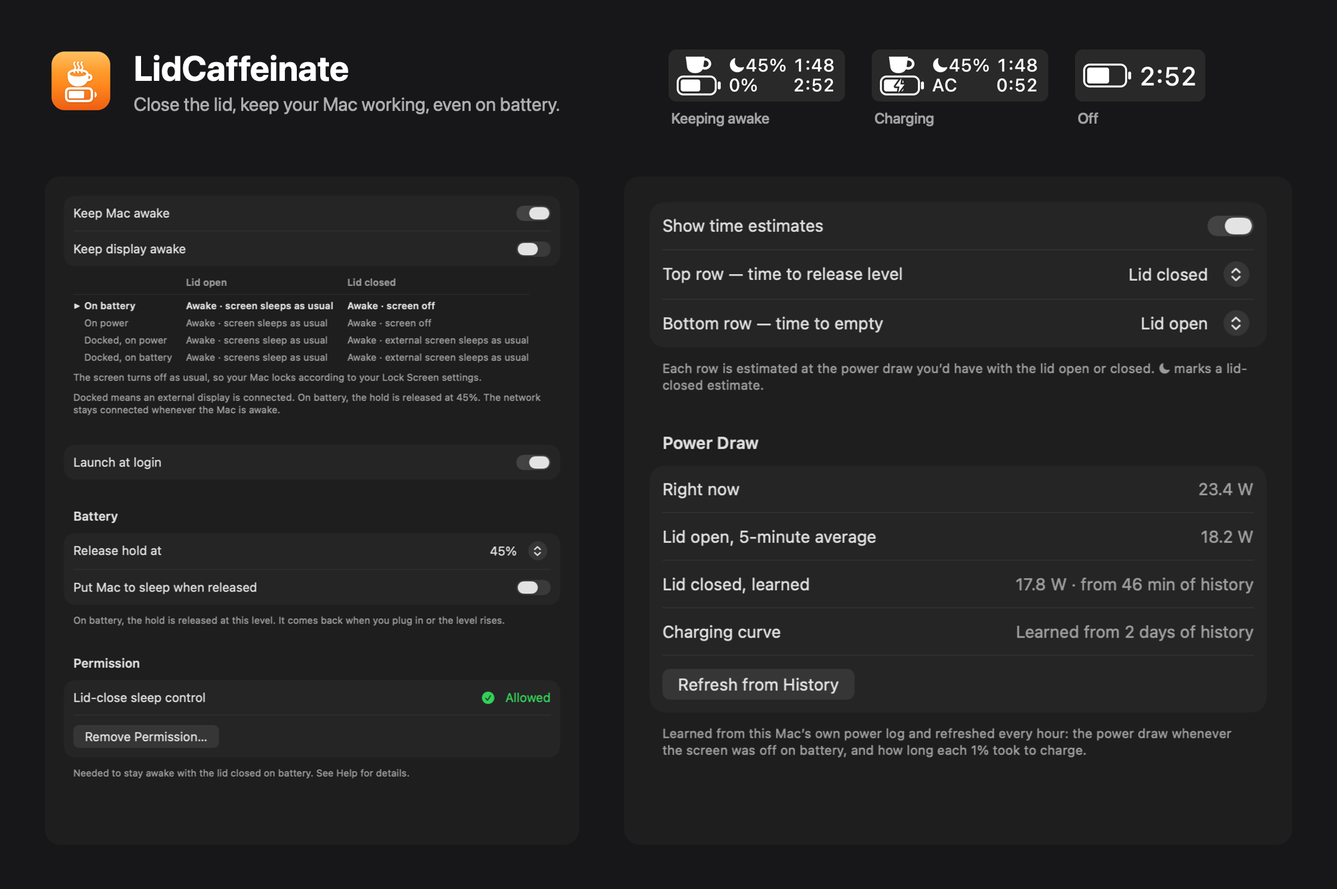
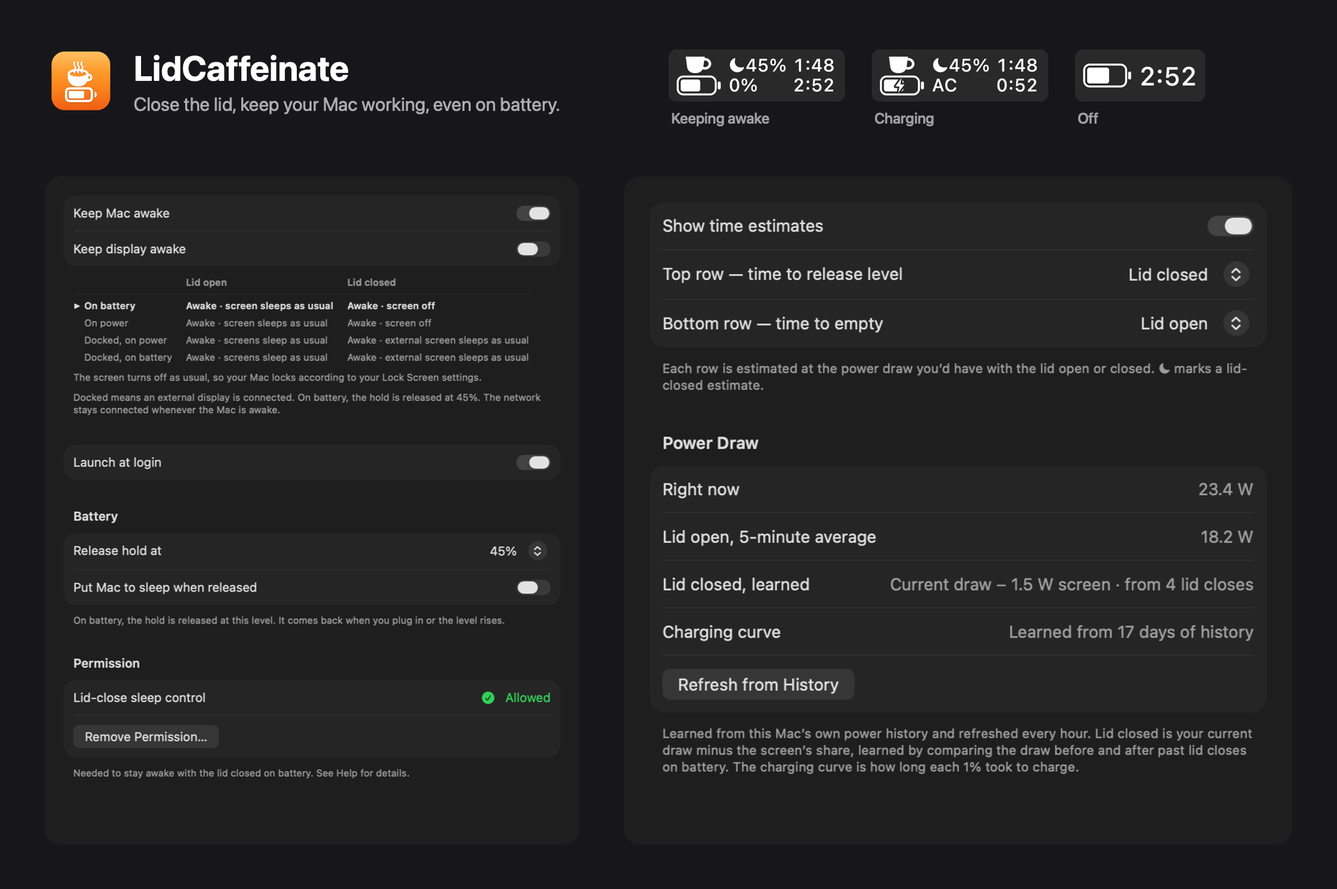
1.2.0: lid-closed time follows your current load; charging curve matched to your charger
- Lid-closed draw is now the current power draw minus the screen's share,
  learned from before/after pairs around past lid closes on battery
  (2 W assumed until 3 are seen).
- History now also reads macOS's older daily power-log archives,
  unpacked once into the app's Caches folder.
- Time to full uses only past charges with a similar charger, recognised
  by each session's peak power in; other bands fall back to all history.
- Works on any installation: checks tables/columns before reading,
  skips unreadable logs, keeps the last good result.

Changed region(s): [[0.496, 0.8015, 0.93, 0.894], [0.651, 0.6474, 0.93, 0.6782], [0.744, 0.709, 0.837, 0.7398]]

diff --git a/main.swift b/main.swift
@@ -219,7 +219,8 @@ enum ChargeModel {
     static func historyMinutes(_ b: BatteryInfo) -> Int? {
         guard let pct = b.pct, pct < 100 else { return nil }
         let cur = min(9, pct / 10)
-        guard let histNow = PowerHistory.chargeRate(cur) else { return nil }
+        let ref = max(PowerHistory.chargePeakW, b.powerInW ?? 0)                 // this charger's power
+        guard let histNow = PowerHistory.chargeRate(cur, refW: ref) else { return nil }
         var scale = 1.0
         if cur < 8, let a = b.mA, a > 50, let mx = b.mAhMax {
             let liveNow = 60 * Double(mx) / (100 * Double(a))      // minutes per 1% at today's charging speed
@@ -228,7 +229,7 @@ enum ChargeModel {
         var m = 0.0
         for p in pct..<100 {
             let band = min(9, p / 10)
-            guard let r = PowerHistory.chargeRate(band) else { return nil }
+            guard let r = PowerHistory.chargeRate(band, refW: ref) else { return nil }
             m += band < 8 ? r * scale : r
         }
         return Int(m.rounded())
@@ -237,11 +238,17 @@ enum ChargeModel {
 
 // MARK: - Power history (macOS power log)
 
+/// One past charge: its peak power in (identifies the charger) and the time / % gained per 10% band.
+struct ChargeSession: Codable { var peak: Double; var t: [Double]; var d: [Double] }
+
 struct HistoryResult: Codable {
     var chargeMinutesPerPercent: [Double]   // per 10% band; -1 = not enough data
     var lidClosedWatts: Double?             // screen off, on battery, awake
     var lidClosedMinutes: Double
     var days: Double
+    var screenShareW: Double? = nil         // how much less the Mac draws once the screen is off (learned from lid closes)
+    var lidClosePairs: Int? = nil           // lid closes on battery with a usable before/after
+    var sessions: [ChargeSession]? = nil    // per-charge stats, to match past charges to today's charger
 }
 
 /// Learns from the power log macOS keeps on every Mac (readable without admin rights):
@@ -276,9 +283,26 @@ enum PowerHistory {
         }
     }
 
+    /// Peak power in during the current charge (set by the app), used to match past charges to this charger.
+    static var chargePeakW = 0.0
+
+    /// Minutes per 1% per band from past charges whose peak power in was at least 70% of this charger's.
+    /// Bands without such data use all history; -1 = no data.
+    static func curve(refW: Double) -> [Double] {
+        guard let r = result, r.chargeMinutesPerPercent.count == 10 else { return [] }
+        let all = r.chargeMinutesPerPercent
+        guard refW > 0, let ss = r.sessions, ss.contains(where: { $0.peak > 0 }) else { return all }
+        var t = [Double](repeating: 0, count: 10), d = t
+        for s in ss where s.peak >= 0.7 * refW && s.t.count == 10 && s.d.count == 10 {
+            for b in 0..<10 { t[b] += s.t[b]; d[b] += s.d[b] }
+        }
+        return (0..<10).map { d[$0] >= 3 ? t[$0] / 60 / d[$0] : all[$0] }
+    }
+
     /// Minutes per 1% for a band; a band without data borrows the nearest one, preferring the slower band above.
-    static func chargeRate(_ band: Int) -> Double? {
-        guard let m = result?.chargeMinutesPerPercent, m.count == 10 else { return nil }
+    static func chargeRate(_ band: Int, refW: Double = 0) -> Double? {
+        let m = curve(refW: refW)
+        guard m.count == 10 else { return nil }
         if m[band] > 0 { return m[band] }
         for k in 1..<10 {
             for c in [band + k, band - k] where (0..<10).contains(c) && m[c] > 0 { return m[c] }
@@ -286,9 +310,48 @@ enum PowerHistory {
         return nil
     }
 
-    static func compute() -> HistoryResult? {
+    /// Screen share assumed until at least 3 lid closes have been seen.
+    static let defaultScreenShare = 2.0
+
+    /// The current log plus macOS's older daily archives, unpacked once into the app's cache folder.
+    static func logFiles() -> [String] {
+        let fm = FileManager.default
+        var files: [String] = []
+        let archDir = "/private/var/db/powerlog/Library/BatteryLife/Archives"
+        if let cache = fm.urls(for: .cachesDirectory, in: .userDomainMask).first?.appendingPathComponent("LidCaffeinate/powerlog") {
+            try? fm.createDirectory(at: cache, withIntermediateDirectories: true)
+            let archives = ((try? fm.contentsOfDirectory(atPath: archDir)) ?? []).filter { $0.hasSuffix(".PLSQL.gz") }.sorted()
+            let wanted = Set(archives.map { String($0.dropLast(3)) })
+            for name in (try? fm.contentsOfDirectory(atPath: cache.path)) ?? [] where !wanted.contains(name) {
+                try? fm.removeItem(at: cache.appendingPathComponent(name))       // macOS dropped that archive
+            }
+            for a in archives {
+                let out = cache.appendingPathComponent(String(a.dropLast(3)))
+                if !fm.fileExists(atPath: out.path), fm.createFile(atPath: out.path, contents: nil),
+                   let h = FileHandle(forWritingAtPath: out.path) {
+                    let p = Process()
+                    p.executableURL = URL(fileURLWithPath: "/usr/bin/gunzip")
+                    p.arguments = ["-c", "\(archDir)/\(a)"]
+                    p.standardOutput = h
+                    p.standardError = FileHandle.nullDevice
+                    var ok = false
+                    if (try? p.run()) != nil { p.waitUntilExit(); ok = p.terminationStatus == 0 }
+                    try? h.close()
+                    if !ok { try? fm.removeItem(at: out) }
+                }
+                if fm.fileExists(atPath: out.path) { files.append(out.path) }
+            }
+        }
+        files.append(path)
+        return files
+    }
+
+    struct Row { var t: Double; var level: Double?; var charging, ext, full: Bool; var mA, mV, adapterW: Double? }
+
+    /// Reads one log; checks which tables and columns exist so it works across Macs and macOS versions.
+    static func read(_ file: String) -> (rows: [Row], backlight: [(Double, Int)])? {
         var db: OpaquePointer?
-        guard sqlite3_open_v2("file:\(path)?immutable=1", &db, SQLITE_OPEN_READONLY | SQLITE_OPEN_URI, nil) == SQLITE_OK else {
+        guard sqlite3_open_v2("file:\(file)?immutable=1", &db, SQLITE_OPEN_READONLY | SQLITE_OPEN_URI, nil) == SQLITE_OK else {
             sqlite3_close(db); return nil
         }
         defer { sqlite3_close(db) }
@@ -302,29 +365,61 @@ enum PowerHistory {
         func num(_ s: OpaquePointer, _ i: Int32) -> Double? {
             sqlite3_column_type(s, i) == SQLITE_NULL ? nil : sqlite3_column_double(s, i)
         }
-
+        var cols = Set<String>()
+        _ = query("pragma table_info('PLBatteryAgent_EventBackward_Battery')") { s in
+            if let c = sqlite3_column_text(s, 1) { cols.insert(String(cString: c)) }
+        }
+        guard cols.contains("timestamp"), cols.contains("Level") else { return nil }
+        func col(_ names: [String], _ fallback: String) -> String { names.first(where: cols.contains) ?? fallback }
+        let sql = "select timestamp, Level, \(col(["IsCharging"], "0")), \(col(["ExternalConnected"], "0")), " +
+                  "\(col(["FullyCharged"], "0")), \(col(["InstantAmperage", "Amperage"], "NULL")), \(col(["Voltage"], "NULL")), " +
+                  "\(col(["AdapterPower"], "NULL")) " +
+                  "from PLBatteryAgent_EventBackward_Battery order by timestamp"
+        var rows: [Row] = []
+        guard query(sql, { s in
+            rows.append(Row(t: sqlite3_column_double(s, 0), level: num(s, 1), charging: sqlite3_column_int(s, 2) == 1,
+                            ext: sqlite3_column_int(s, 3) == 1, full: sqlite3_column_int(s, 4) == 1, mA: num(s, 5), mV: num(s, 6),
+                            adapterW: num(s, 7)))
+        }) else { return nil }
         var backlight: [(Double, Int)] = []
         _ = query("select timestamp, Active from PLDisplayAgent_EventPoint_Display where Block='Backlight' order by timestamp") { s in
             backlight.append((sqlite3_column_double(s, 0), Int(sqlite3_column_int(s, 1))))
         }
-        struct Row { var t: Double; var level: Double?; var charging, ext, full: Bool; var mA, mV: Double? }
-        var rows: [Row] = []
-        let ok = query("select timestamp, Level, IsCharging, ExternalConnected, FullyCharged, InstantAmperage, Voltage from PLBatteryAgent_EventBackward_Battery order by timestamp") { s in
-            rows.append(Row(t: sqlite3_column_double(s, 0), level: num(s, 1), charging: sqlite3_column_int(s, 2) == 1,
-                            ext: sqlite3_column_int(s, 3) == 1, full: sqlite3_column_int(s, 4) == 1, mA: num(s, 5), mV: num(s, 6)))
+        return (rows, backlight)
+    }
+
+    static func compute() -> HistoryResult? {
+        // merge all logs in time order, skipping overlap
+        var parts = logFiles().compactMap(read).filter { !$0.rows.isEmpty }
+        parts.sort { $0.rows[0].t < $1.rows[0].t }
+        var rows: [Row] = [], backlight: [(Double, Int)] = []
+        for p in parts {
+            let lastT = rows.last?.t ?? 0
+            rows += p.rows.filter { $0.t > lastT }
+            let lastB = backlight.last?.0 ?? 0
+            backlight += p.backlight.filter { $0.0 > lastB }
         }
-        guard ok, rows.count > 1 else { return nil }
+        guard rows.count > 1 else { return nil }
 
         var bandT = [Double](repeating: 0, count: 10), bandD = bandT
         var offSecs = 0.0, offWattSecs = 0.0, bi = -1
+        var sessions: [ChargeSession] = [], sessionOpen = false
+        let zeros = [Double](repeating: 0, count: 10)
         for i in 0..<(rows.count - 1) {
             let a = rows[i], b = rows[i + 1], dt = b.t - a.t
-            guard dt > 0, dt < 1800 else { continue }
-            // charging curve: all charging time per 10% band, including time sitting on the same %
-            if a.charging, a.ext, b.ext, !a.full, let l0 = a.level, let l1 = b.level, l0 < 100 {
-                let band = min(9, Int(l0 / 10))
-                bandT[band] += dt; bandD[band] += max(0, l1 - l0)
-            }
+            guard dt > 0, dt < 1800 else { sessionOpen = false; continue }
+            // charging curve: all charging time per 10% band, including time sitting on the same %,
+            // also kept per charging session with its peak power in, to match the charger later
+            if a.charging, a.ext {
+                if !sessionOpen { sessions.append(ChargeSession(peak: 0, t: zeros, d: zeros)); sessionOpen = true }
+                let k = sessions.count - 1
+                sessions[k].peak = max(sessions[k].peak, a.adapterW ?? 0)
+                if b.ext, !a.full, let l0 = a.level, let l1 = b.level, l0 < 100 {
+                    let band = min(9, Int(l0 / 10)), gain = max(0, l1 - l0)
+                    bandT[band] += dt; bandD[band] += gain
+                    sessions[k].t[band] += dt; sessions[k].d[band] += gain
+                }
+            } else { sessionOpen = false }
             // screen-off draw: on battery, awake (no sleep gap), backlight off for at least 2 minutes
             while bi + 1 < backlight.count && backlight[bi + 1].0 <= a.t { bi += 1 }
             if !a.ext, !b.ext, dt <= 300, bi >= 0, backlight[bi].1 == 0, a.t - backlight[bi].0 >= 120,
@@ -333,10 +428,39 @@ enum PowerHistory {
                 offSecs += dt
             }
         }
+
+        // screen share: draw in the 10 minutes before each lid close on battery, minus the draw after it
+        func avgW(_ from: Double, _ to: Double) -> (Double, Double) {
+            var lo = 0, hi = rows.count
+            while lo < hi { let m = (lo + hi) / 2; if rows[m].t < from { lo = m + 1 } else { hi = m } }
+            var ws = 0.0, secs = 0.0, i = lo
+            while i + 1 < rows.count, rows[i + 1].t <= to {
+                let a = rows[i], b = rows[i + 1], dt = b.t - a.t
+                if !a.ext, !b.ext, dt > 0, dt <= 300, let i0 = a.mA, let i1 = b.mA, let v0 = a.mV, let v1 = b.mV {
+                    ws += -(i0 * v0 + i1 * v1) / 2 / 1_000_000 * dt; secs += dt
+                }
+                i += 1
+            }
+            return (secs > 0 ? ws / secs : 0, secs)
+        }
+        var diffs: [Double] = []
+        for (k, e) in backlight.enumerated() where e.1 == 0 {
+            let on = backlight[(k + 1)...].first(where: { $0.1 == 1 })?.0 ?? e.0 + 1800
+            let before = avgW(e.0 - 600, e.0), after = avgW(e.0 + 120, min(on, e.0 + 3600))
+            if before.1 >= 120, after.1 >= 120 { diffs.append(before.0 - after.0) }
+        }
+        var share: Double? = nil
+        if diffs.count >= 3 {
+            let d = diffs.sorted(), m = d.count / 2
+            share = min(10, max(0, d.count % 2 == 1 ? d[m] : (d[m - 1] + d[m]) / 2))
+        }
+
         return HistoryResult(chargeMinutesPerPercent: (0..<10).map { bandD[$0] >= 3 ? bandT[$0] / 60 / bandD[$0] : -1 },
                              lidClosedWatts: offSecs >= 600 && offWattSecs > 0 ? offWattSecs / offSecs : nil,
                              lidClosedMinutes: offSecs / 60,
-                             days: (rows[rows.count - 1].t - rows[0].t) / 86400)
+                             days: (rows[rows.count - 1].t - rows[0].t) / 86400,
+                             screenShareW: share, lidClosePairs: diffs.count,
+                             sessions: sessions.filter { $0.d.reduce(0, +) > 0 })
     }
 }
 
@@ -699,6 +823,7 @@ final class AppDelegate: NSObject, NSApplicationDelegate, NSMenuDelegate {
         battery = Power.battery()
         if battery.charging && !wasCharging { PowerHistory.refresh(force: true) { [weak self] in self?.updateIcon() } }
         wasCharging = battery.charging
+        PowerHistory.chargePeakW = battery.onAC && battery.charging ? max(PowerHistory.chargePeakW, battery.powerInW ?? 0) : 0
         PowerHistory.refresh { [weak self] in self?.updateIcon() }   // hourly
         learnDraw()
         let t = Settings.threshold
@@ -749,8 +874,13 @@ final class AppDelegate: NSObject, NSApplicationDelegate, NSMenuDelegate {
     var openWatts: Double? {
         openSamples.isEmpty ? battery.watts : openSamples.map(\.1).reduce(0, +) / Double(openSamples.count)
     }
+    /// Lid-closed draw: what the Mac is using now minus the screen's share (background work keeps running
+    /// after the lid closes). Falls back to the history average, then to live learning.
     var closedWatts: Double? {
-        PowerHistory.result?.lidClosedWatts ?? (Settings.lidClosedWattsLearned > 0 ? Settings.lidClosedWattsLearned : nil)
+        if !battery.lidClosed, let open = openWatts, open > 0.5 {
+            return max(0.5, open - (PowerHistory.result?.screenShareW ?? PowerHistory.defaultScreenShare))
+        }
+        return PowerHistory.result?.lidClosedWatts ?? (Settings.lidClosedWattsLearned > 0 ? Settings.lidClosedWattsLearned : nil)
     }
 
     /// Minutes to `t` % at the lid-open or lid-closed rate. Lid-closed falls back to lid-open until learned.
@@ -1054,11 +1184,11 @@ final class LiveModel: ObservableObject {
 
     /// Where the lid-closed draw and the charging curve come from, for Settings.
     func applyHistoryNotes() {
-        if let h = PowerHistory.result, let w = h.lidClosedWatts {
-            closedNote = String(format: "%.1f W · from %.0f min of history", w, h.lidClosedMinutes)
-        } else if Settings.lidClosedWattsLearned > 0 {
-            closedNote = String(format: "%.1f W · learned live", Settings.lidClosedWattsLearned)
-        } else { closedNote = "Not learned yet" }
+        if let h = PowerHistory.result, let s = h.screenShareW {
+            closedNote = String(format: "Current draw − %.1f W screen · from %d lid closes", s, h.lidClosePairs ?? 0)
+        } else {
+            closedNote = String(format: "Current draw − %.0f W screen · default until learned", PowerHistory.defaultScreenShare)
+        }
         if let h = PowerHistory.result, h.chargeMinutesPerPercent.contains(where: { $0 > 0 }) {
             historyNote = h.days >= 1 ? "Learned from \(Int(h.days.rounded())) days of history"
                                       : "Learned from \(max(1, Int(h.days * 24))) hours of history"
@@ -1241,7 +1371,7 @@ struct MenuBarTab: View {
                 LabeledContent("Charging curve", value: model.historyNote)
                 Button("Refresh from History", action: actions.resetLearning)
             } header: { Text("Power Draw") } footer: {
-                footer("Learned from this Mac’s own power log and refreshed every hour: the power draw whenever the screen was off on battery, and how long each 1% took to charge.")
+                footer("Learned from this Mac’s own power history and refreshed every hour. Lid closed is your current draw minus the screen’s share, learned by comparing the draw before and after past lid closes on battery. The charging curve is how long each 1% took to charge.")
             }
         }
         .formStyle(.grouped)
@@ -1292,9 +1422,9 @@ struct HelpTab: View {
             topic("The menu-bar icon", "menubar.rectangle",
                   "Cup on the battery: keeping awake. Outlined cup: awake, but lid-close sleep isn’t allowed yet. Battery only: off, or released at your battery level.\n\nOn battery, the top row is the time until the release level and the bottom row is the time until empty. On power, the top row is the time you’d get if you unplugged now, and the bottom row is the time until full.")
             topic("What “learned” means", "brain",
-                  "Times are based on how much power your Mac actually uses, measured from the battery every 30 seconds. Each time is the energy left above the target level, divided by the average power draw.\n\nLid open: the average of the last 5 minutes, so it follows whatever you’re doing now. It’s measured on power too, so “if unplugged” times work.\n\nLid closed: learned from this Mac’s power log, as the average power draw whenever the screen was off on battery, skipping the first 2 minutes while the display and graphics wind down. It’s refreshed every hour. If there isn’t enough history yet, it’s learned live while the lid is closed. Until it’s learned, lid-closed rows use the lid-open rate, and ☾ appears once the lid-closed rate is in use.")
+                  "Times are based on how much power your Mac actually uses, measured from the battery every 30 seconds. Each time is the energy left above the target level, divided by the average power draw.\n\nLid open: the average of the last 5 minutes, so it follows whatever you’re doing now. It’s measured on power too, so “if unplugged” times work.\n\nLid closed: your current power draw minus the screen’s share, because background work keeps running after you close the lid. The screen’s share is learned from this Mac’s power history by comparing the draw before and after past lid closes on battery. Until there are 3 of them, it assumes 2 W. Until it’s learned, lid-closed rows use the lid-open rate, and ☾ appears once the lid-closed rate is in use.")
             topic("Time to full", "bolt",
-                  "While charging, the time to full is learned from this Mac’s own charging history in the macOS power log: how many minutes each 1% took at each level, so the slowdown near full is included. Below 80%, the speed is adjusted to today’s charger and load. Without history, macOS’s own estimate is used. The menu shows the charging power, the power coming in minus what the Mac is using, and macOS’s figure for comparison.")
+                  "While charging, the time to full is learned from this Mac’s own charging history in the macOS power log: how many minutes each 1% took at each level, using past charges with a similar charger, so the slowdown near full is included. Below 80%, the speed is adjusted to today’s charger and load. Without history, macOS’s own estimate is used. The menu shows the charging power, the power coming in minus what the Mac is using, and macOS’s figure for comparison.")
             topic("Network keep-alive", "wifi",
                   "The app pings a host at the interval you set, every 30 seconds by default. If two pings in a row fail, it joins your hotspot. Join the hotspot once from the Wi-Fi menu first so its password is saved.")
             topic("Safety", "checkmark.shield",
@@ -1360,7 +1490,8 @@ if CommandLine.arguments.contains("--battery") {   // debug: print the numbers b
     Settings.register()
     PowerHistory.result = PowerHistory.compute() ?? PowerHistory.result
     if let h = PowerHistory.result {
-        print(String(format: "history: %.1f days · screen-off draw %@ from %.0f min · charge min/%% per band %@", h.days,
+        print(String(format: "history: %.1f days · screen share %@ from %d lid closes · screen-off avg %@ from %.0f min · charge min/%% per band %@", h.days,
+                     h.screenShareW.map { String(format: "%.1f W", $0) } ?? "n/a", h.lidClosePairs ?? 0,
                      h.lidClosedWatts.map { String(format: "%.1f W", $0) } ?? "n/a", h.lidClosedMinutes,
                      h.chargeMinutesPerPercent.map { $0 > 0 ? String(format: "%.2f", $0) : "-" }.joined(separator: " ")))
     } else { print("history: power log not readable") }
@@ -1369,6 +1500,8 @@ if CommandLine.arguments.contains("--battery") {   // debug: print the numbers b
     print("watts now=\(b.watts.map { String(format: "%.1f", $0) } ?? "?")  energy to \(t)%=\(b.energyWh(downTo: t).map { String(format: "%.1f Wh", $0) } ?? "?")")
     print("to empty (system or fallback)=\(b.toEmptyMin ?? -1) min  to \(t)% now=\(Power.minutes(to: t, b) ?? -1) min")
     print("time to full: shown=\(b.toFullMin ?? -1) min  macOS=\(b.systemToFullMin ?? -1) min  power in=\(b.powerInW.map { String(format: "%.1f", $0) } ?? "?") W")
+    print("charger-matched curve (\(Int(b.powerInW ?? 0)) W, \(PowerHistory.result?.sessions?.count ?? 0) past charges): " +
+          PowerHistory.curve(refW: b.powerInW ?? 0).map { $0 > 0 ? String(format: "%.2f", $0) : "-" }.joined(separator: " "))
     let lw = Settings.lidClosedWattsLearned
     print("lid closed learned=\(String(format: "%.1f", lw)) W  to \(t)% lid closed=\(lw > 0 ? Power.minutes(to: t, b, watts: lw) ?? -1 : -1) min  to 0% lid closed=\(lw > 0 ? Power.minutes(to: 0, b, watts: lw) ?? -1 : -1) min")
     exit(0)

diff --git a/README.md b/README.md
@@ -43,15 +43,15 @@ Prefer to compile it yourself? See [Build it yourself](#build-it-yourself).
 
 ## Learning from your Mac
 
-macOS keeps a power log on every Mac. LidCaffeinate reads it, read-only and without admin rights, so its estimates fit your battery, charger and the way you work.
+macOS keeps a power log on every Mac, plus about a week of older daily archives. LidCaffeinate reads them, read-only and without admin rights, so its estimates fit your battery, charger and the way you work.
 
 | What | How it's learned |
 |---|---|
-| Lid-closed power draw | The average power whenever the screen was off on battery, skipping the first 2 minutes while the display winds down. |
-| Time to full | How many minutes each 1% took to charge in each 10% band, so the slowdown near full is included. Below 80% it's adjusted to today's charger and load. |
+| Lid-closed power draw | Your current power draw minus the screen's share, because background work keeps running after the lid closes. The screen's share is learned by comparing the draw before and after past lid closes on battery. Until there are 3 of them, it assumes 2 W. |
+| Time to full | How many minutes each 1% took to charge in each 10% band, so the slowdown near full is included. It uses past charges with a similar charger, recognised by their peak power in, and adjusts below 80% to today's load. |
 | Lid-open power draw | Live, as a rolling 5-minute average of the battery's measured draw. |
 
-The history is refreshed at launch, every hour, when charging starts and when the lid opens. Settings → Menu Bar shows where each number comes from, for example "17.8 W · from 46 min of history", with a Refresh from History button. On a new Mac with little history, the lid-closed draw is learned live while the lid is closed, and the time to full uses macOS's own estimate. The menu shows macOS's figure next to the learned one for comparison.
+The history is refreshed at launch, every hour, when charging starts and when the lid opens. Settings → Menu Bar shows where each number comes from, for example "Current draw − 1.5 W screen · from 4 lid closes", with a Refresh from History button. On a new Mac with little history, the screen's share starts at 2 W and the time to full uses macOS's own estimate. The menu shows macOS's figure next to the learned one for comparison.
 
 ## LidCaffeinate vs `caffeinate`
 
@@ -130,7 +130,7 @@ While a screen is kept on, your Mac doesn't lock itself, so anyone nearby could 
 - **Power assertions:** the same ones as `caffeinate -dims`, created with IOKit. The display assertion is held only while the lid is open, or when docked.
 - **Lid-close sleep:** `pmset -a disablesleep 1` while holding, `0` when released or on quit. A detached watchdog resets it if the app is force-quit or crashes.
 - **Battery:** IOKit power-source APIs, plus the `AppleSmartBattery` gauge for charge, voltage, current and system load.
-- **History:** the macOS power log at `/private/var/db/powerlog/Library/BatteryLife/CurrentPowerlog.PLSQL`, opened read-only. Battery samples give the charging curve per 10% band, and backlight events mark screen-off time for the lid-closed draw. It's an undocumented file, so the app keeps its last result and falls back if a macOS update changes it.
+- **History:** the macOS power log at `/private/var/db/powerlog/Library/BatteryLife/CurrentPowerlog.PLSQL`, opened read-only. Battery samples give the charging curve per 10% band, and backlight events mark screen-off time for the lid-closed draw. The older daily archives are unpacked once into the app's Caches folder and removed when macOS drops them. These are undocumented files, so the app checks which tables and columns exist, skips anything it can't read, keeps its last result, and falls back if a macOS update changes them.
 - **Lid state:** a power-management notification, backed up by a cheap registry check every 2 seconds.
 - **Settings:** stored with `UserDefaults` under the `com.anthony.lidcaffeinate` domain.
 
